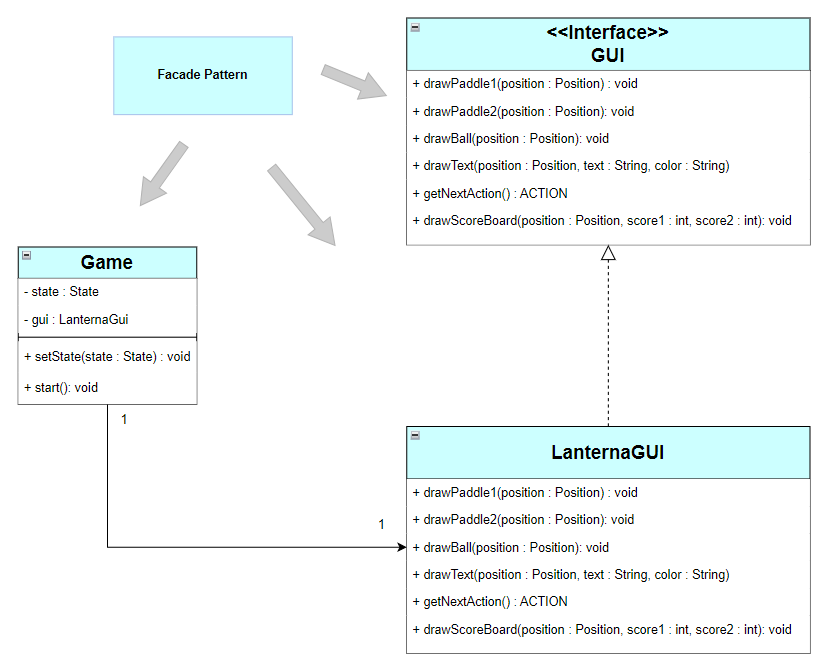
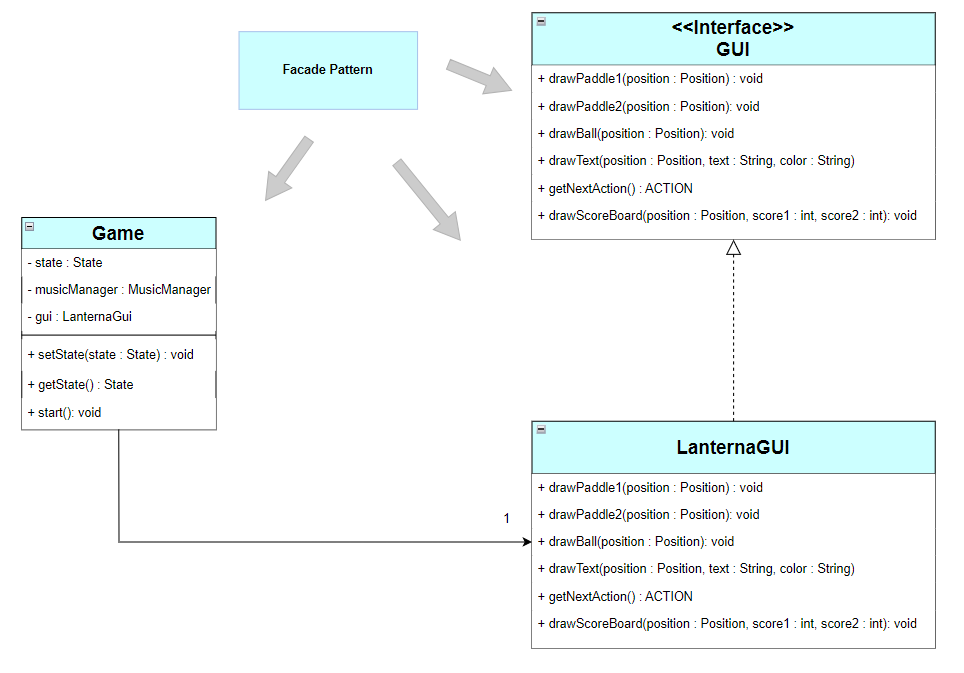
Refined Report

diff --git a/src/main/java/com/aor/pong/Game.java b/src/main/java/com/aor/pong/Game.java
@@ -14,7 +14,7 @@ import java.net.URISyntaxException;
 public class Game {
     private final LanternaGUI gui;
     private State state;
-    MusicManager musicManager;
+     private MusicManager musicManager;
     public Game() throws FontFormatException, IOException, URISyntaxException {
         this.gui = new LanternaGUI(40, 20);
         musicManager = MusicManager.getInstance();

diff --git a/src/main/java/com/aor/pong/model/game/elements/Ball.java b/src/main/java/com/aor/pong/model/game/elements/Ball.java
@@ -9,6 +9,7 @@ public class Ball extends Element {
     int xVelocity;
     int yVelocity;
     int initialXSpeed;
+    int initialYSpeed;
 
     public int getInitialXSpeed() {
         return initialXSpeed;
@@ -18,7 +19,6 @@ public class Ball extends Element {
         return initialYSpeed;
     }
 
-    int initialYSpeed;
 
     public Ball(int x, int y){
         super(x,y);

diff --git a/docs/README.md b/docs/README.md
@@ -84,10 +84,10 @@ In the implementation phase, our Pong game exhibits a well-defined structure bas
 This design ensures clear separation of responsibilities among various classes:
 
 <p align="center" justify="center">
-  <img src="images/UML/MVC_Pong.png"/>
+  <img src="images/UML/MVC2.png"/>
 </p>
 <p align="center">
-  <b><i>Fig 1. Model-View-Controller pattern in Pong</i></b>
+  <b><i>Fig 4. Model-View-Controller pattern in Pong</i></b>
 </p>
 
 - #### Model Classes:
@@ -141,10 +141,10 @@ This approach allows each state, be it the gameplay, menu, winner screen, or mod
 The abstract State class acts as a template, ensuring a consistent structure across different game states while promoting encapsulation and flexibility in handling state-specific behavior.
 
 <p align="center" justify="center">
-  <img src="images/UML/State-Factory.png"/>
+  <img src="images/UML/Factory.png"/>
 </p>
 <p align="center">
-  <b><i>Fig 5. State and Factory Method Pattern</i></b>
+  <b><i>Fig 5. Factory Method Pattern</i></b>
 </p>
 
 These classes can be found in the following files:
@@ -234,11 +234,24 @@ Within each iteration, the method retrieves user input, updates the game state t
 This pattern ensures a continuous and uniform flow of game actions, contributing to a responsive and dynamic gaming experience.
 
 <p align="center" justify="center">
-  <img src="images/UML/Facade.png"/>
+  <img src="images/UML/GLP.png"/>
 </p>
 <p align="center">
-  <b><i>Fig 5. Facade Pattern Design for GUI</i></b>
+  <b><i>Fig 7. Game Loop Pattern given by the step method</i></b>
 </p>
+
+These classes can be found in the following files:
+- [State](../src/main/java/com/aor/pong/states/State.java)
+- [Controller](../src/main/java/com/aor/pong/controller/Controller.java)
+- [GameController](../src/main/java/com/aor/pong/controller/game/GameController.java)
+- [MenuController](../src/main/java/com/aor/pong/controller/menu/MenuController.java)
+- [ModeController](../src/main/java/com/aor/pong/controller/mode/ModeController.java)
+- [WinnerController](../src/main/java/com/aor/pong/controller/Winner/WinnerController.java)
+- [ArenaController](../src/main/java/com/aor/pong/controller/game/ArenaController.java)
+- [Paddle1Controller](../src/main/java/com/aor/pong/controller/game/Paddle1Controller.java)
+- [Paddle2Controller](../src/main/java/com/aor/pong/controller/game/Paddle2Controller.java)
+- [BallController](../src/main/java/com/aor/pong/controller/game/BallController.java)
+
 
 ### Consequences:
 The adoption of the Game Loop Pattern in our Pong game design yields several key advantages:
@@ -273,6 +286,17 @@ this pattern ensures that a class has only one instance and provides a global po
 In the "MusicManager" class, the Singleton Pattern is implemented through the getInstance() method. 
 This method checks if an instance already exists; if not, it creates one, ensuring that only a single instance of "MusicManager" exists throughout the application.
 
+<p align="center" justify="center">
+  <img src="images/UML/Singleton.png"/>
+</p>
+<p align="center">
+  <b><i>Fig 8. Single Pattern for MusicManager</i></b>
+</p>
+
+These classes can be found in the following files:
+- [Game](../src/main/java/com/aor/pong/Game.java)
+- [MusicManager](../src/main/java/com/aor/pong/controller/MusicManager.java)
+
 ### Consequences:
 
 - #### Global Access:
@@ -287,11 +311,6 @@ This method checks if an instance already exists; if not, it creates one, ensuri
   The Singleton Pattern facilitates centralized control over sound-related functionalities, 
   promoting consistency and coherence in managing game sounds.
 
-
-## Mockup
-![Pong Game Mockup](../Mockup.png)
-## UML Diagram
-![UML Diagram](../UML_Diagram.png)
 
 ## Known-code Smells
 We fixed all the errors reported by the error-prone. No other major code smells identified.
